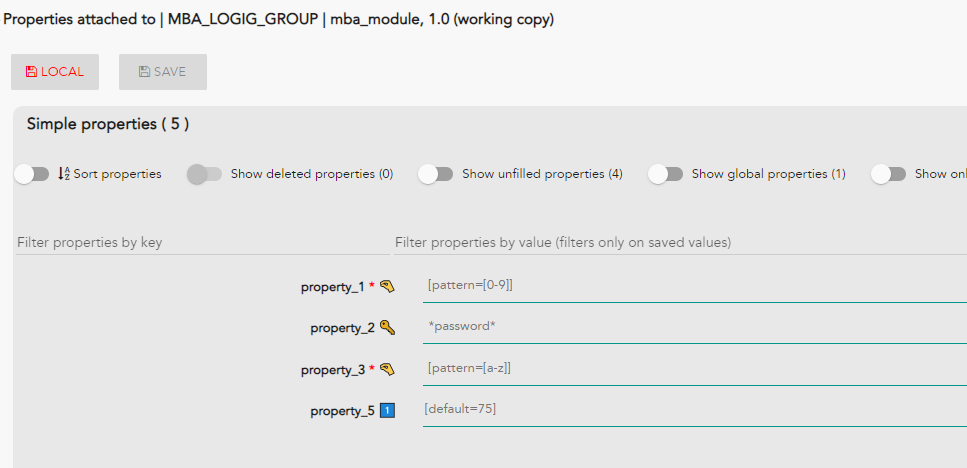
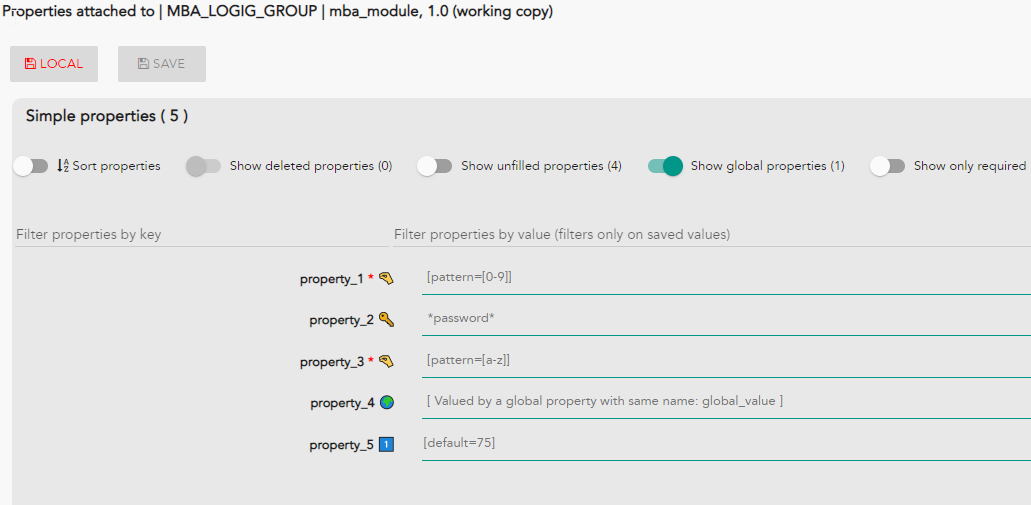
Remplacer les icônes WARNING par des icônes distinctes dédiées

diff --git a/src/app/properties/simple-properties-list.html b/src/app/properties/simple-properties-list.html
@@ -74,10 +74,10 @@
                             <label id="simple-properties-list_key-property-input-{{key_value_property.name}}" class="property-label"
                                    ng-class="{'text-stroke':!key_value_property.inModel, 'default-value-color': key_value_property.defaultValue && !key_value_property.value}"
                                     >{{key_value_property.name}} <span ng-show="key_value_property.required" class="property-required">*</span>
-                                <span ng-if="key_value_property.pattern">🤏<md-tooltip md-direction="left">{{key_value_property.tooltip}}</md-tooltip></span>
-                                <span ng-if="key_value_property.defaultValue">1⃣<md-tooltip md-direction="left">{{key_value_property.tooltip}}</md-tooltip></span>
-                                <span ng-if="key_value_property.password">🔑<md-tooltip md-direction="left">{{key_value_property.tooltip}}</md-tooltip></span>
-                                <span ng-if="key_value_property.valuedByAGlobal">🌍<md-tooltip md-direction="left">{{key_value_property.tooltip}}</md-tooltip></span>
+                                <span id="e2e-key-value-property-{{key_value_property.name}}" ng-if="key_value_property.pattern">🤏<md-tooltip md-direction="left">{{key_value_property.tooltip}}</md-tooltip></span>
+                                <span id="e2e-key-value-property-{{key_value_property.name}}" ng-if="key_value_property.defaultValue">1⃣<md-tooltip md-direction="left">{{key_value_property.tooltip}}</md-tooltip></span>
+                                <span id="e2e-key-value-property-{{key_value_property.name}}" ng-if="key_value_property.password">🔑<md-tooltip md-direction="left">{{key_value_property.tooltip}}</md-tooltip></span>
+                                <span id="e2e-key-value-property-{{key_value_property.name}}" ng-if="key_value_property.valuedByAGlobal">🌍<md-tooltip md-direction="left">{{key_value_property.tooltip}}</md-tooltip></span>
                             </label>
                         </div>
                     </div>

diff --git a/test/bdd/glue/scenarios/platforms/module-properties-list.js b/test/bdd/glue/scenarios/platforms/module-properties-list.js
@@ -14,8 +14,25 @@ When('I display the deleted properties', async function () {
     await send.clickById('toggle-deleted-properties_switch');
 });
 
+When('I click on the switch to display also the global properties', async function () {
+    await send.clickById('toggle-global-properties_switch');
+});
+
 Then('only the required properties are displayed', async function () {
     await get.elementsByCss('textarea.property-value').then(assert.itemsAreRequired);
+});
+
+Then('the properties are displayed with dedicated icons', async function () {
+    const defaultElement = await get.elementById('simple-properties-list_key-property-input-default-property');
+    const passwordElement = await get.elementById('simple-properties-list_key-property-input-password-property');
+    const patternElement = await get.elementById('simple-properties-list_key-property-input-pattern-property');
+    const requiredElement = await get.elementById('simple-properties-list_key-property-input-required-property');
+    const globalElement = await get.elementById('simple-properties-list_key-property-input-global-property');
+    await assert.containsText(defaultElement, '1⃣');
+    await assert.containsText(passwordElement, '🔑');
+    await assert.containsText(patternElement, '🤏');
+    await assert.containsText(requiredElement, '*');
+    await assert.containsText(globalElement, '🌍');
 });
 
 Then(/the property "([^"]+)" is( not)? displayed/, async function (propertyName, notDisplayed) {

diff --git a/docs/valuations.html b/docs/valuations.html
@@ -230,8 +230,9 @@
                                     <div class="section-block">
                                     <p>If you click on your module "module-test" when you edit your platform, you can valuate properties for your environment :</p><img class="img-responsive" alt="" src="assets/images/screenshots/platform_display_module_properties.png"></div>
                                     <div class="row">
-                                        <div class="col-md-4 col-sm-8 col-xs-12">
+                                        <div class="col-md-8 col-sm-8 col-xs-12">
                                             <ul>
+                                                <li><span class="red-start">* </span> This icon describe a required property</li>
                                                 <li>🔑 This icon describe a password property</li>
                                                 <li>🌍 This icon describe a property valued by global property</li>
                                                 <li>1⃣ This icon describe a property that have default value</li>

diff --git a/docs/assets/css/styles.css b/docs/assets/css/styles.css
@@ -1175,6 +1175,10 @@ select {
   border: none;
   color: #fff !important;
 }
+
+.red-start {
+  color: red;
+}
 /* Extra small devices (phones, less than 768px) */
 @media (max-width: 767px) {
   .doc-content {
